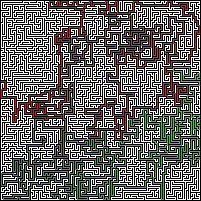
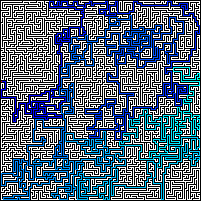
beaufitul

Changed region(s): [[0.0, 0.0, 1.0, 1.0], [0.6269, 0.9254, 0.7164, 0.9552], [0.6866, 0.3284, 0.7164, 0.3582]]

diff --git a/src/maze.rs b/src/maze.rs
@@ -6,6 +6,9 @@ pub const WHITE: Rgb<u8> = Rgb([255, 255, 255]);
 pub const RED: Rgb<u8> = Rgb([255, 0, 0]);
 pub const GREEN: Rgb<u8> = Rgb([0, 255, 0]);
 pub const BLUE: Rgb<u8> = Rgb([0, 0, 255]);
+pub const YELLOW: Rgb<u8> = Rgb([255, 255, 0]);
+pub const MAGENTA: Rgb<u8> = Rgb([255, 0, 255]);
+pub const CYAN: Rgb<u8> = Rgb([0, 255, 255]);
 
 pub trait ClampedAdd<Rhs = Self> {
     type Output;
@@ -154,6 +157,7 @@ impl<const W: usize, const H: usize> Maze<W, H> {
 
     pub fn solve(&mut self) {
         self.solve_internals(self.start);
+        self.path.remove(0);
     }
 
     pub fn path(&self) -> Vec<(usize, usize)> {
@@ -162,8 +166,7 @@ impl<const W: usize, const H: usize> Maze<W, H> {
 
     pub fn print_over_image<F>(&self, image: &mut RgbImage, f: F)
     where
-        Rgb<u8>: ClampedMul<f32> + ClampedAdd,
-        F: Fn(Rgb<u8>, Rgb<u8>, f32) -> Rgb<u8>,
+        F: Fn(f32, f32) -> Rgb<u8>,
     {
         let len = self.path.len() as f32;
 
@@ -171,15 +174,15 @@ impl<const W: usize, const H: usize> Maze<W, H> {
             .iter()
             .enumerate()
             .for_each(|(idx, (x, y))| {
-                image.put_pixel(*x as u32, *y as u32, f(RED, GREEN, idx as f32 / len).into())
+                image.put_pixel(*x as u32, *y as u32, f(idx as f32, len).into())
             })
     }
 }
 
-impl<const W: usize, const H: usize> TryFrom<&RgbImage> for Maze<W, H> {
+impl<const W: usize, const H: usize> TryFrom<RgbImage> for Maze<W, H> {
     type Error = MazeError;
 
-    fn try_from(image: &RgbImage) -> Result<Self, Self::Error> {
+    fn try_from(image: RgbImage) -> Result<Self, Self::Error> {
         if image.width() as usize != W || image.height() as usize != H {
             return Err(MazeError::IncompatibleDimensons)
         }

diff --git a/src/main.rs b/src/main.rs
@@ -1,18 +1,33 @@
-use maze_solver::maze::{Maze, ClampedAdd, ClampedMul};
+#![allow(dead_code)]
+#![allow(unused_variables)]
+
+use maze_solver::maze::{Maze, ClampedAdd, ClampedMul, *};
 use image::{open, Rgb};
 
 fn lerp(first_color: Rgb<u8>, second_color: Rgb<u8>, t: f32) -> Rgb<u8> {
     first_color.clamped_mul(1.0 - t).clamped_add(second_color.clamped_mul(t))
 }
 
+fn lerp_red_green(idx: f32, total: f32) -> Rgb<u8> {
+    lerp(RED, GREEN, idx / total)
+}
+
+fn lerp_blue_cyan(idx: f32, total: f32) -> Rgb<u8> {
+    lerp(BLUE, CYAN, idx / total)
+}
+
+fn alternated_blue_cyan(idx: f32, total: f32) -> Rgb<u8> {
+    lerp(BLUE, CYAN, if idx % 2.0 == 0.0 { 0.0 } else { 1.0 })
+}
+
 fn main() {
     let mut image = open("maze.png").unwrap().into_rgb8();
 
-    let mut maze: Maze<201, 201> = Maze::try_from(&image).unwrap();
+    let mut maze: Maze<201, 201> = Maze::try_from(image.clone()).unwrap();
 
     maze.solve();
 
-    maze.print_over_image(&mut image, lerp);
+    maze.print_over_image(&mut image, lerp_blue_cyan);
 
     image.save("maze_solved.png").unwrap();
 }

diff --git a/README.md b/README.md
@@ -2,8 +2,5 @@
 
 # maze-solver
 
-- [ ] define constants
-- [ ] make one able to choose the colors of every cell
-- [ ] make the thing generic (comment)
-- [ ] maze try_from kinda bad
-- [ ] make fading effect
+-  make one able to choose the colors of every cell (don't know how really)
+-  maze try_from kinda bad
